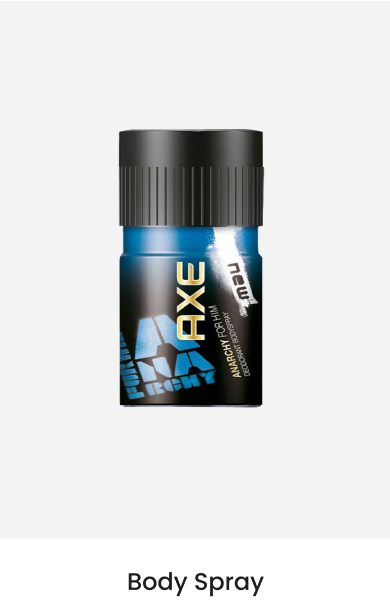
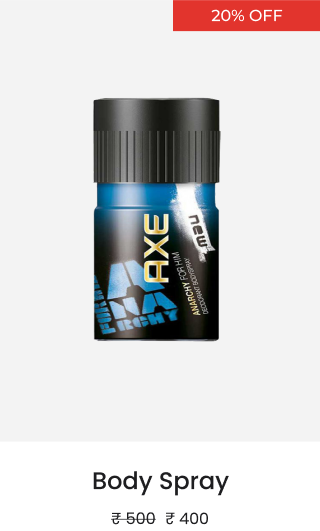
Ajout des partie produits et commencement du  footer

Changed region(s): [[0.2812, 0.1808, 0.6875, 0.693], [0.2812, 0.8738, 0.7188, 0.9944], [0.5312, 0.0, 1.0, 0.0603]]

diff --git a/designecommerce/index.html b/designecommerce/index.html
@@ -50,12 +50,109 @@
         <button>Learn More</button>
       </div>
     <img src="assets/img/cover_img.png" alt="Image d'un livreur">
-</div>
+    </div>
 
 </header>
 <!--Fin Header-->
-
+<br><br><br><br><br><br>
 <!--New Products-->
+<h1 style="text-align: center; text-transform: uppercase;font-weight: bold;"><span style="color: red;">New </span> <span style="color: blue;">Products</span></h1>
+<!--debut des produits-->
+<br><br><br>
+<!--Fin New Products-->
+<div class="grid-container">
+    <div class="grid-item"><img src="assets/img/Product Item.png" alt="Product 5"></div>
+    <div class="grid-item"><img src="assets/img/Content.png" alt="Product 4"></div>
+    <div class="grid-item"><img src="assets/img/Product Item (1).png" alt="Product 3"></div>  
 
+     
+ </div>
+  
+<!--Fin des Products-->
+
+<!--Fin New Products-->
+<div class="presentation_week">
+    <img src="assets/img/Feature_img1 (2).png" alt="Image d'un livreur">
+    <div class="details">
+        <h3><span style="color: red;">Macc</span> WEEKLY DISCOUNT <span><button style="background-color: rgb(224, 220, 220); border: none; margin-left: 450px; width: 100px; height: 50px; font-size: 15px;">View All</button></span></h3>
+        <br><br><br>
+        <div class="grid-container">
+            <div class="grid-item"><img src="assets/img/Content.png" alt="Product 4"></div>
+            <div class="grid-item"><img src="assets/img/Thumbnail.png" alt="Product 5"></div>
+    
+         </div>
+    </div>
+</div>
+<br><br><br>
+<div class="presentation_selling">
+    <img src="assets/img/Feature_img1 (4).png" alt="">
+    <div class="details_selling">
+        <h3><span style="color: red;">Macc</span> WEEKLY SELLING <span><button style="background-color: rgb(224, 220, 220); border: none; margin-left: 450px; width: 100px; height: 50px; font-size: 15px;">View All</button></span></h3>
+        <br><br><br>
+        <div class="grid-container">
+            <div class="grid-item"><img src="assets/img/Content.png" alt="Product 4"></div>
+            <div class="grid-item"><img src="assets/img/Product Item.png" alt="Product 5"></div>
+    
+         </div>
+    </div>
+</div>
+<br><br> <br>
+<div class="avant_dernier">
+    <div class="titre">
+        <h1><span style="color: red;">COVID-19</span> GUIDELINES</h1>
+    </div>
+    <br>
+    <div class="paragraph">
+        <p>Please remember to adhere all covid-19 guidelines. Precaution is key <br>to survive this pandemic. Stay at home and Stay safe. </p>
+    </div>
+</div>
+<br><br><br><br><br><br>
+<!-- Footer debut-->
+<footer>
+    <div class="grid_start">
+        <div class="item_grid">
+             <h1 class="nav" style="font-family: Brush Script MT, Brush Script Std, cursive	; font-size: 40px;"> <span style="color: red;"> &nbsp;Macc &nbsp; &nbsp;</span> <br><span style="color: blue;">Essentials</span></h1>
+        </div>
+        <div class="item_grid">
+            <div class="grid-container">
+                <div class="grid-item">
+                    <ul>
+                        <li>Home</li>
+                        <br>
+                        <li>Collection</li>
+                        <br>
+                        <li>Products</li>
+                        <br>
+                    </ul>
+            </div>
+                <div class="grid-item">
+                    <ul>
+                        <li>About</li>
+                        <br>
+                        <li>Contact</li>
+                        <br>
+                        <li>FAQ</li>
+                        <br>
+                    </ul>
+                </div>
+        
+             </div>
+        </div>
+        <div class="item_grid">
+           <p>Be the first to know about our biggest and best sales. We'll never send more than one email a month.</p>
+           <br>
+           <input type="text">
+           <ul class="reseau">
+            <li><button></button></li>
+            
+            <li><button></button></li>
+            
+            <li><button></button></li>
+            
+            <li><button></button></li>
+        </ul>
+        </div>
+    </div>
+</footer>
 </body>
 </html>

diff --git a/designecommerce/assets/css/style.css b/designecommerce/assets/css/style.css
@@ -5,6 +5,10 @@
 /* Navbar style */
 ul {
     list-style: none;
+    
+    
+}
+.navpart {
     display: flex;
 }
 .rigth_text {
@@ -84,4 +88,53 @@ sup {
     margin-right: 150px;
     margin-top: 40px;
 }
+
+/* Début des produits*/
+
+.grid-container {
+    display: grid;
+    grid-template-columns: auto auto auto;
+    padding: 10px;
+    margin-bottom: 50px;
+}  
+/* Fin des produits*/
+
+.presentation_week img {
+    float: left;
+    margin-right: 50px;
+}
+.presentation_week h3 {
+   font-size: 40px;
+}
+.presentation_selling img {
+    float: right;
+}
+.details_selling {
+    margin-left: 80px;
+}
+.presentation_selling h3 {
+    font-size: 40px;
+ }
+ .titre {
+    text-align: center;
+    font-size: 25px;
+    font-family: Verdana, Geneva, Tahoma, sans-serif
+
+ }
+ .paragraph {
+    text-align: center;
+    font-size: 20px;
+    
+ }
+ .grid_start {
+    display: grid;
+    grid-template-columns: auto auto auto auto;
+    padding: 10px;
+    margin-bottom: 50px;
+}
+.reseau {
+    display: flex;
+}
+
+
 
